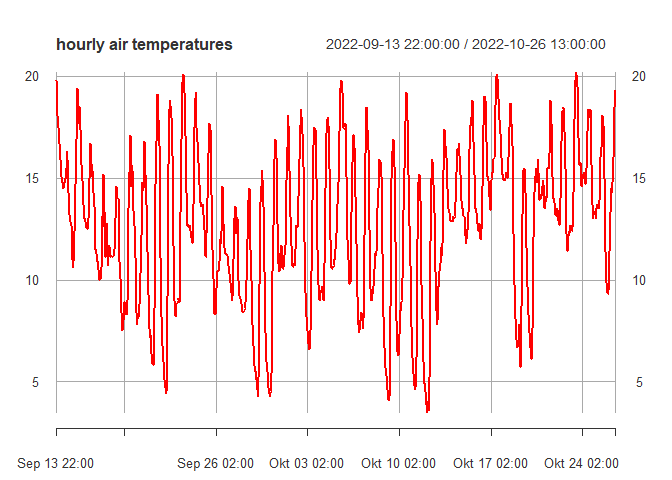
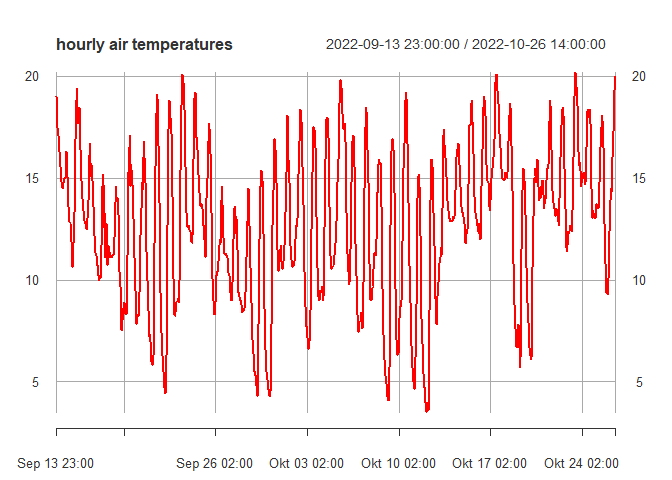
README

diff --git a/README.md b/README.md
@@ -1,7 +1,7 @@
 
 <!-- README.md is generated from README.Rmd. Please edit that file -->
 
-# netatmo-weather
+# netatmo.weather
 
 <!-- badges: start -->
 <!-- badges: end -->
@@ -15,8 +15,8 @@ You can install the development version of netatmo.weather from
 [GitHub](https://github.com/) with:
 
 ``` r
-# install.packages("devtools")
-# devtools::install_github("falk-env/netatmo.weather")
+install.packages("devtools")
+devtools::install_github("falk-env/netatmo.weather")
 ```
 
 and load the package via
@@ -32,15 +32,14 @@ library(netatmo.weather)
 In order to be able to access data, please follow the subsequent steps:
 
 1)  Register a user account at
-    [auth.netatmo.com](https://auth.netatmo.com/access/signup).
-
-2)  Login at
+    [auth.netatmo.com](https://auth.netatmo.com/access/signup) and login
+    at
     [dev.netatmo.com](https://auth.netatmo.com/de-de/access/login?next_url=https%3A%2F%2Fdev.netatmo.com%2F).
 
-3)  Click on your username in the upper right corner and create a new
+2)  Click on your username in the upper right corner and create a new
     application. Provide mandatory information (\*) and save.
 
-4)  Credentials will be stored making use of `{keyring}`. To securely
+3)  Credentials will be stored making use of `{keyring}`. To securely
     encrypt your secrets stored, it is necessary to define a master
     password in your R user environment, which can be edited via
     `file.edit("~/.Renviron")`. Create a new environment variable called
@@ -49,26 +48,26 @@ In order to be able to access data, please follow the subsequent steps:
     create a password using e.g. `{sodium}` with
     `keygen() |> bin2hex()`. Restart R to see changes.
 
-5)  Run `set_credentials()` and provide the information necessary
-    (name/id/secret), as supplied in 3) .
+4)  Run `set_credentials()` and copy & paste the information necessary
+    (name/id/secret), as supplied in 2) .
 
-<!-- -->
+``` r
+set_credentials()
+#> Note: Keyring 'netatmo' successfully created.
+```
 
-    set_credentials()
-    #> Note: Keyring 'netatmo' successfully created.
-
-6)  Run `get_oauth2token()` to create an Oauth 2 token based on the
-    specifications provided in 5).
+5)  Run `get_oauth2token()` to create an Oauth 2 token based on the
+    specifications provided in 4).
 
 ``` r
 get_oauth2token()
 #> Note: OAuth 2.0 token successfully created as `.sig`.
 ```
 
-7)  When asked, whether you want to use a local file to cache OAuth
+6)  When asked, whether you want to use a local file to cache OAuth
     access credentials between R sessions, choose “1: Yes”.
 
-8)  You’ll be redirected to your browser to grant access to your
+7)  You’ll be redirected to your browser to grant access to your
     application. Accept and close the browser tab.
 
 Note: `get_oauth2token()` is limited to `"read_station"` scope.
@@ -85,32 +84,36 @@ missing.
 You can access your access and refresh token consisting of a key and
 secret making use of little helpers provided:
 
-    print_at()
-    #> "&access_token=62361e03ca18e13802546z20|5dt2091f1693dbff35f0428f2386b492"
+``` r
+print_at()
+#> "&access_token=62361e03ca18e13802546z20|5dt2091f1693dbff35f0428f2386b492"
 
-    print_rt()
-    #> "&refresh_token=62361e03ca18e13802546z20|6ce2fb2490a615d58b16e874fz4eb579"
+print_rt()
+#> "&refresh_token=62361e03ca18e13802546z20|6ce2fb2490a615d58b16e874fz4eb579"
+```
 
 Token expire after 3 hours and have to be refreshed again in order to be
 used. `{netatmo.weather}` does so in the background automatically
 without the user noticing. But if you’re using your access token in a
 browser session temporarily, make use of these little helpers provided:
 
-    is_expired()
-    #> TRUE
+``` r
+is_expired()
+#> TRUE
 
-    refresh_at()
-    #> <Token>
-    #> <oauth_endpoint>
-    #>  authorize: https://api.netatmo.net/oauth2/authorize
-    #>  access:    https://api.netatmo.net/oauth2/token
-    #> <oauth_app> de_uhi
-    #>   key:    62361e03ca18e13802546z20
-    #>   secret: <hidden>
-    #> <credentials> scope, access_token, expires_in, expire_in, refresh_token
+refresh_at()
+#> <Token>
+#> <oauth_endpoint>
+#>  authorize: https://api.netatmo.net/oauth2/authorize
+#>  access:    https://api.netatmo.net/oauth2/token
+#> <oauth_app> de_uhi
+#>   key:    62361e03ca18e13802546z20
+#>   secret: <hidden>
+#> <credentials> scope, access_token, expires_in, expire_in, refresh_token
 
-    is_expired()
-    #> FALSE
+is_expired()
+#> FALSE
+```
 
 ### /getpublicdata
 
@@ -159,7 +162,7 @@ stations <- get_publicdata(ext = e1)
 
 # returning a simple feature collection with 309 features
 dim(stations)
-#> [1] 308  15
+#> [1] 307  15
 
 # inspect
 head(stations, 10)
@@ -171,16 +174,16 @@ head(stations, 10)
 #> # A tibble: 10 × 15
 #>    status time_server         base_…¹ timez…² country altit…³ city  street  mark
 #>    <chr>  <dttm>              <chr>   <chr>   <chr>     <int> <chr> <chr>  <int>
-#>  1 ok     2022-10-26 14:37:35 70:ee:… Europe… DE          112 Essen Steel…    10
-#>  2 ok     2022-10-26 14:37:35 70:ee:… Europe… DE          114 Essen Steel…     1
-#>  3 ok     2022-10-26 14:37:35 70:ee:… Europe… DE          108 Essen Herwa…    10
-#>  4 ok     2022-10-26 14:37:35 70:ee:… Europe… DE           76 Essen Graff…    10
-#>  5 ok     2022-10-26 14:37:35 70:ee:… Europe… DE           60 Essen Hengl…     1
-#>  6 ok     2022-10-26 14:37:35 70:ee:… Europe… DE           79 Essen Am Kn…    10
-#>  7 ok     2022-10-26 14:37:35 70:ee:… Europe… DE           69 Essen Notte…     1
-#>  8 ok     2022-10-26 14:37:35 70:ee:… Europe… DE           77 Essen Lohmü…    10
-#>  9 ok     2022-10-26 14:37:35 70:ee:… Europe… DE           76 Essen Lohdi…    10
-#> 10 ok     2022-10-26 14:37:35 70:ee:… Europe… DE           98 Essen Märki…    10
+#>  1 ok     2022-10-26 15:22:10 70:ee:… Europe… DE          112 Essen Steel…    10
+#>  2 ok     2022-10-26 15:22:10 70:ee:… Europe… DE          114 Essen Steel…     1
+#>  3 ok     2022-10-26 15:22:10 70:ee:… Europe… DE          108 Essen Herwa…    10
+#>  4 ok     2022-10-26 15:22:10 70:ee:… Europe… DE           76 Essen Graff…    10
+#>  5 ok     2022-10-26 15:22:10 70:ee:… Europe… DE           60 Essen Hengl…     1
+#>  6 ok     2022-10-26 15:22:10 70:ee:… Europe… DE           79 Essen Am Kn…    10
+#>  7 ok     2022-10-26 15:22:10 70:ee:… Europe… DE           69 Essen Notte…    10
+#>  8 ok     2022-10-26 15:22:10 70:ee:… Europe… DE           77 Essen Lohmü…    10
+#>  9 ok     2022-10-26 15:22:10 70:ee:… Europe… DE           76 Essen Lohdi…    10
+#> 10 ok     2022-10-26 15:22:10 70:ee:… Europe… DE           98 Essen Märki…    10
 #> # … with 6 more variables: n_modules <int>, NAModule1 <chr>, NAModule2 <chr>,
 #> #   NAModule3 <chr>, NAModule4 <lgl>, geometry <POINT [°]>, and abbreviated
 #> #   variable names ¹base_station, ²timezone, ³altitude
@@ -193,13 +196,14 @@ to be influenced by the size of the area queried, the logical argument
 number of available stations.
 
 ``` r
-stations_tiled <- get_publicdata(ext = e1, use_tiles = TRUE)
+stations_tiled <- get_publicdata(ext = e1, 
+                                 use_tiles = TRUE)
 #> Warning: attribute variables are assumed to be spatially constant throughout all
 #> geometries
 
 # returning a simple feature collection with 628 features using the same extent as above
 dim(stations_tiled)
-#> [1] 628  15
+#> [1] 626  15
 
 # inspect
 head(stations_tiled, 10)
@@ -211,16 +215,16 @@ head(stations_tiled, 10)
 #> # A tibble: 10 × 15
 #>    status time_server         base_…¹ timez…² country altit…³ city  street  mark
 #>    <chr>  <dttm>              <chr>   <chr>   <chr>     <int> <chr> <chr>  <int>
-#>  1 ok     2022-10-26 14:38:30 70:ee:… Europe… DE           45 Essen Volck…    10
-#>  2 ok     2022-10-26 14:38:30 70:ee:… Europe… DE           46 Essen Eva-H…    10
-#>  3 ok     2022-10-26 14:38:30 70:ee:… Europe… DE           48 Essen Rings…     1
-#>  4 ok     2022-10-26 14:38:30 70:ee:… Europe… DE           98 Essen Laupe…    10
-#>  5 ok     2022-10-26 14:38:30 70:ee:… Europe… DE           46 Essen Johan…     1
-#>  6 ok     2022-10-26 14:38:30 70:ee:… Europe… DE           64 Essen Meist…    10
-#>  7 ok     2022-10-26 14:38:30 70:ee:… Europe… DE           62 Essen Haupt…    10
-#>  8 ok     2022-10-26 14:38:30 70:ee:… Europe… DE           66 Essen Eiche…    10
-#>  9 ok     2022-10-26 14:38:30 70:ee:… Europe… DE           81 Essen Humme…    10
-#> 10 ok     2022-10-26 14:38:30 70:ee:… Europe… DE           45 Mülh… Bauor…    10
+#>  1 ok     2022-10-26 15:23:03 70:ee:… Europe… DE           45 Essen Volck…    10
+#>  2 ok     2022-10-26 15:23:03 70:ee:… Europe… DE           46 Essen Eva-H…     1
+#>  3 ok     2022-10-26 15:23:03 70:ee:… Europe… DE           48 Essen Rings…     1
+#>  4 ok     2022-10-26 15:23:03 70:ee:… Europe… DE           98 Essen Laupe…    10
+#>  5 ok     2022-10-26 15:23:03 70:ee:… Europe… DE           46 Essen Johan…     1
+#>  6 ok     2022-10-26 15:23:03 70:ee:… Europe… DE           64 Essen Meist…    10
+#>  7 ok     2022-10-26 15:23:03 70:ee:… Europe… DE           62 Essen Haupt…     1
+#>  8 ok     2022-10-26 15:23:03 70:ee:… Europe… DE           66 Essen Eiche…    10
+#>  9 ok     2022-10-26 15:23:03 70:ee:… Europe… DE           81 Essen Humme…     1
+#> 10 ok     2022-10-26 15:23:03 70:ee:… Europe… DE           45 Mülh… Bauor…     1
 #> # … with 6 more variables: n_modules <int>, NAModule1 <chr>, NAModule2 <chr>,
 #> #   NAModule3 <chr>, NAModule4 <lgl>, geometry <POINT [°]>, and abbreviated
 #> #   variable names ¹base_station, ²timezone, ³altitude
@@ -244,17 +248,17 @@ To assist you with the latter going backwards from `Sys.time()`,
 # default: `res = 5`
 p1 <- get_period()
 as.POSIXct(p1, origin = "1970-01-01")
-#> [1] "2022-10-23 00:40:00 CEST" "2022-10-26 14:00:00 CEST"
+#> [1] "2022-10-23 01:40:00 CEST" "2022-10-26 15:00:00 CEST"
 
-# hourly data
+# here: `res = 60` corresponding to hourly data
 p2 <- get_period(res = 60)
 as.POSIXct(p2, origin = "1970-01-01")
-#> [1] "2022-09-13 22:00:00 CEST" "2022-10-26 14:00:00 CEST"
+#> [1] "2022-09-13 23:00:00 CEST" "2022-10-26 15:00:00 CEST"
 
 # querying the last 24 hours, maybe convenient for scheduled jobs
 p3 <- get_period(x = "recent")
 as.POSIXct(p3, origin = "1970-01-01")
-#> [1] "2022-10-25 14:00:00 CEST" "2022-10-26 14:00:00 CEST"
+#> [1] "2022-10-25 15:00:00 CEST" "2022-10-26 15:00:00 CEST"
 
 # self-defined period
 p4 <- get_period(x = c("2022-06-01", "2022-06-04"))
@@ -268,7 +272,10 @@ some time to finish.
 
 ``` r
 # get subset of data for demonstration purposes
-obs_temperature <- get_measure(devices = stations_tiled[1:10, ], period = p2, par = "temperature", res = 60)
+obs_temperature <- get_measure(devices = stations_tiled[1:10, ], 
+                               period = p2, 
+                               par = "temperature", 
+                               res = 60)
 
 class(obs_temperature)
 #> [1] "list"
@@ -278,15 +285,18 @@ length(obs_temperature)
 # subset to individual xts object
 xts <- obs_temperature[[1]]
 
+class(xts)
+#> [1] "xts" "zoo"
+
 # inspect index/coredata
 head(xts)
 #>                     [,1]
-#> 2022-09-13 22:00:00 19.8
 #> 2022-09-13 23:00:00 19.0
 #> 2022-09-14 00:00:00 18.1
 #> 2022-09-14 01:00:00 17.5
 #> 2022-09-14 02:00:00 17.1
 #> 2022-09-14 03:00:00 16.7
+#> 2022-09-14 04:00:00 16.3
 
 # inspect attribute names appended 
 attributes(xts) |> names() |> tail(-3)
